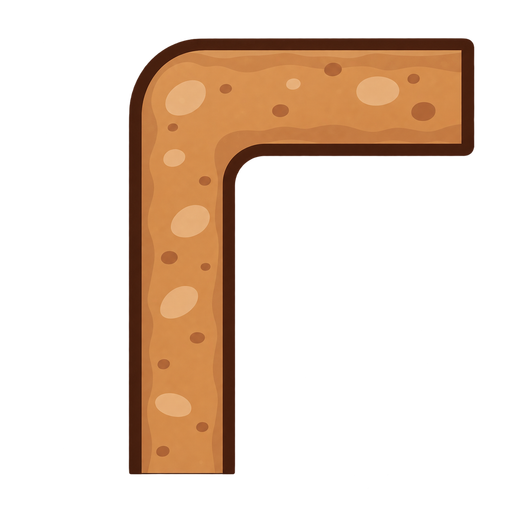
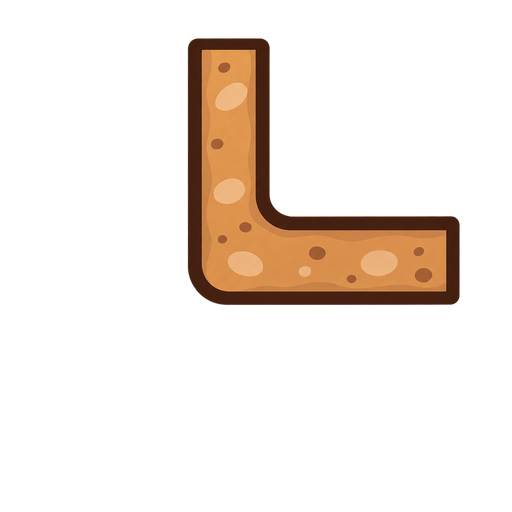
fix: 通路パーツの接続と猫・家の表示サイズを修正
行き止まりパーツが上下に貫通した棒状になっていて、回転すると
閉じているはずの反対側にも道が伸びて見えるバグを修正(CSSで
下半分をクリップ)。カーブパーツはChatGPTで正しい形(中心から
直角に曲がる形)に再生成。各パーツの実測した余白から拡大率を
CSSで補正し、隣接タイルと道がぴったりつながるようにした。
猫と家の表示サイズを縮小し、下に敷かれた道がちゃんと見える
ようにした。

diff --git a/src/ui/tile-svg.ts b/src/ui/tile-svg.ts
@@ -17,12 +17,15 @@ import tileFixedUrl from '../assets/img/tile_fixed.png';
 import tileUrl from '../assets/img/tile.png';
 
 type Rotation = 0 | 90 | 180 | 270;
-type RoadPiece = { src: string; rot: Rotation; end: boolean };
+type PieceKind = 'end' | 'straight' | 'corner' | 't' | 'cross';
+type RoadPiece = { src: string; rot: Rotation; kind: PieceKind };
 
 /**
  * 開いている方角の組合せから、通路パーツ画像 1 枚と回転角を決める。
  * 各素材は「上方向が開いている」基準（road_corner・road_t は「上+右」基準）で
  * 描かれているので、実際の方角に合わせて 90 度単位で回す。
+ * 画像素材そのものは中心ぴったりで縁に届いているとは限らないので、
+ * 種類ごとの拡大率・クリップは CSS 側（.tile-road-img.piece-*）で補正する。
  */
 function roadPiece(conn: number): RoadPiece | null {
   const open = ALL_DIRS.filter((d) => isOpen(conn, d));
@@ -30,27 +33,27 @@ function roadPiece(conn: number): RoadPiece | null {
 
   if (open.length === 1) {
     const d = open[0]!;
-    return { src: roadEndUrl, rot: ((d * 90) % 360) as Rotation, end: true };
+    return { src: roadEndUrl, rot: ((d * 90) % 360) as Rotation, kind: 'end' };
   }
 
   if (open.length === 2) {
     const [a, b] = open as [Dir, Dir];
     if (opposite(a) === b) {
       // 直線: N-S 基準なので E-W なら 90 度回す
-      return { src: roadStraightUrl, rot: a === 0 || a === 2 ? 0 : 90, end: false };
+      return { src: roadStraightUrl, rot: a === 0 || a === 2 ? 0 : 90, kind: 'straight' };
     }
     // カーブ: 隣り合う 2 方向。「小さい方の方角→時計回り隣」を基準(0度)とする
     const d = b === ((a + 1) % 4) ? a : b;
-    return { src: roadCornerUrl, rot: ((d * 90) % 360) as Rotation, end: false };
+    return { src: roadCornerUrl, rot: ((d * 90) % 360) as Rotation, kind: 'corner' };
   }
 
   if (open.length === 3) {
     const missing = ALL_DIRS.find((d) => !isOpen(conn, d))!;
     // T字: 「左(W)が塞がっている」基準なので、塞がっている方角を W に合わせて回す
-    return { src: roadTUrl, rot: (((missing + 1) % 4) * 90) as Rotation, end: false };
+    return { src: roadTUrl, rot: (((missing + 1) % 4) * 90) as Rotation, kind: 't' };
   }
 
-  return { src: roadCrossUrl, rot: 0, end: false };
+  return { src: roadCrossUrl, rot: 0, kind: 'cross' };
 }
 
 /**
@@ -65,11 +68,7 @@ export function tileSvg(tile: Tile): string {
 
   const road = roadPiece(tile.conn);
   if (road) {
-    const cls = [
-      'tile-road-img',
-      road.rot !== 0 ? `rot-${road.rot}` : '',
-      road.end ? 'tile-road-end' : '',
-    ]
+    const cls = ['tile-road-img', `piece-${road.kind}`, road.rot !== 0 ? `rot-${road.rot}` : '']
       .filter(Boolean)
       .join(' ');
     parts.push(`<img class="${cls}" src="${road.src}" alt="" />`);

diff --git a/src/styles/board.css b/src/styles/board.css
@@ -123,36 +123,62 @@
 
 .tile-road-img {
   object-fit: contain;
+  /* 生成した素材は縁ぴったりに描かれていないので、種類ごとに拡大して
+     タイルの端まで届かせる（--road-scale）。角度は回転クラスが --road-rot に入れる。 */
+  transform: rotate(var(--road-rot, 0deg)) scale(var(--road-scale, 1));
 }
 
 .tile-road-img.rot-90 {
-  transform: rotate(90deg);
+  --road-rot: 90deg;
 }
 
 .tile-road-img.rot-180 {
-  transform: rotate(180deg);
+  --road-rot: 180deg;
 }
 
 .tile-road-img.rot-270 {
-  transform: rotate(270deg);
+  --road-rot: 270deg;
+}
+
+/* road_end.png は中心から片側だけでなく上下に貫通した棒として描かれてしまったので、
+   下半分をクリップしてから拡大し、行き止まりが逆側にも伸びて見えるのを防ぐ。 */
+.tile-road-img.piece-end {
+  clip-path: inset(0 0 50% 0);
+  --road-scale: 1.28;
+}
+
+.tile-road-img.piece-straight {
+  --road-scale: 1.02;
+}
+
+.tile-road-img.piece-corner {
+  --road-scale: 1.22;
+}
+
+.tile-road-img.piece-t {
+  --road-scale: 1.32;
+}
+
+.tile-road-img.piece-cross {
+  --road-scale: 1.11;
 }
 
 .tile-mark {
   position: absolute;
-  top: 22%;
-  left: 22%;
-  width: 56%;
-  height: 56%;
+  top: 30%;
+  left: 30%;
+  width: 40%;
+  height: 40%;
   display: block;
   object-fit: contain;
   pointer-events: none;
 }
 
 .tile-mark.tile-fish {
-  top: 27%;
-  left: 27%;
-  width: 46%;
-  height: 46%;
+  top: 32%;
+  left: 32%;
+  width: 36%;
+  height: 36%;
 }
 
 /* 到達可能／移動可能／ヒントの強調は、画像の上に重ねた枠・色で示す */
@@ -184,9 +210,12 @@
 }
 
 .cat-img {
+  position: absolute;
+  top: 18%;
+  left: 18%;
+  width: 64%;
+  height: 64%;
   display: block;
-  width: 100%;
-  height: 100%;
   object-fit: contain;
 }
 

diff --git a/tests/ui/tile-svg.test.ts b/tests/ui/tile-svg.test.ts
@@ -17,7 +17,7 @@ describe('tileSvg', () => {
   });
 
   it('開いている方角の数に応じた通路パーツを選ぶ', () => {
-    expect(tileSvg(tile('N'))).toContain('tile-road-end');
+    expect(tileSvg(tile('N'))).toContain('piece-end');
     expect(tileSvg(tile('NS'))).toContain('road_straight');
     expect(tileSvg(tile('NE'))).toContain('road_corner');
     expect(tileSvg(tile('NES'))).toContain('road_t');
@@ -25,8 +25,8 @@ describe('tileSvg', () => {
   });
 
   it('行き止まりだけ専用クラスが付く', () => {
-    expect(tileSvg(tile('N'))).toContain('tile-road-end');
-    expect(tileSvg(tile('NS'))).not.toContain('tile-road-end');
+    expect(tileSvg(tile('N'))).toContain('piece-end');
+    expect(tileSvg(tile('NS'))).not.toContain('piece-end');
   });
 
   it('固定タイルには専用のクラスと画像が付く', () => {
